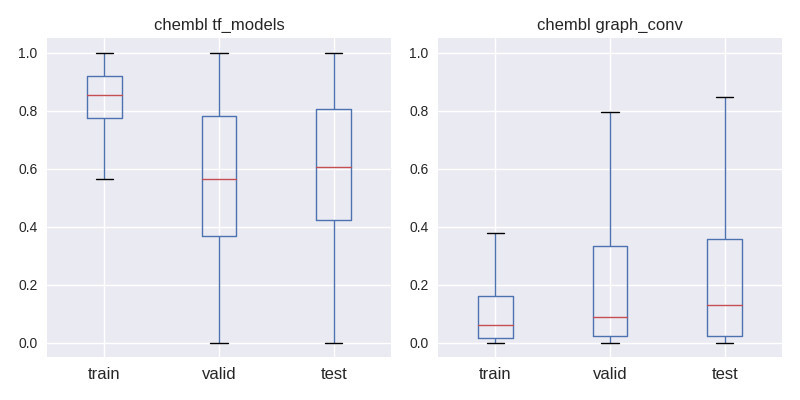
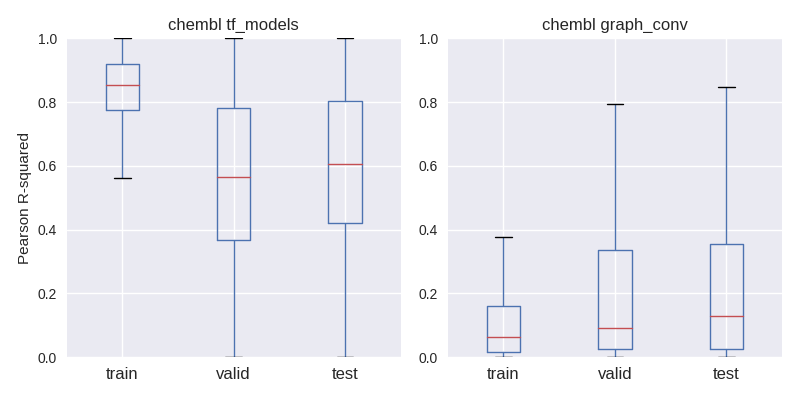
update plot axis

diff --git a/plot.py b/plot.py
@@ -14,6 +14,14 @@ def main():
 
             ax = plt.subplot(1,2,i)
             df.boxplot(ax=ax)
+            if dataset == 'chembl':
+                if i == 1:
+                    plt.ylabel('Pearson R-squared')
+                plt.ylim(0.,1.)
+            elif dataset == 'pcba':
+                if i == 1:
+                    plt.ylabel('ROC AUC')
+                plt.ylim(0.5, 1.0)
             plt.title('%s %s' % (dataset, method))
             plt.tight_layout()
         plt.savefig('log/%s.png' % (dataset))
